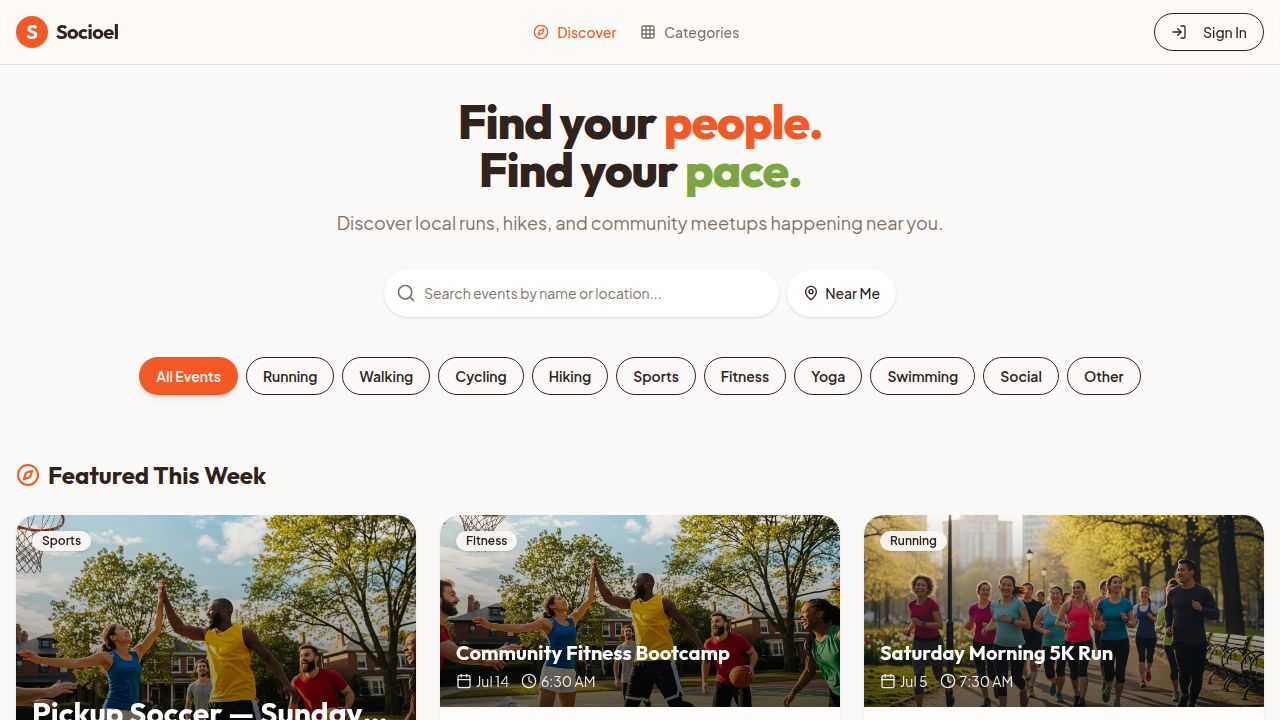
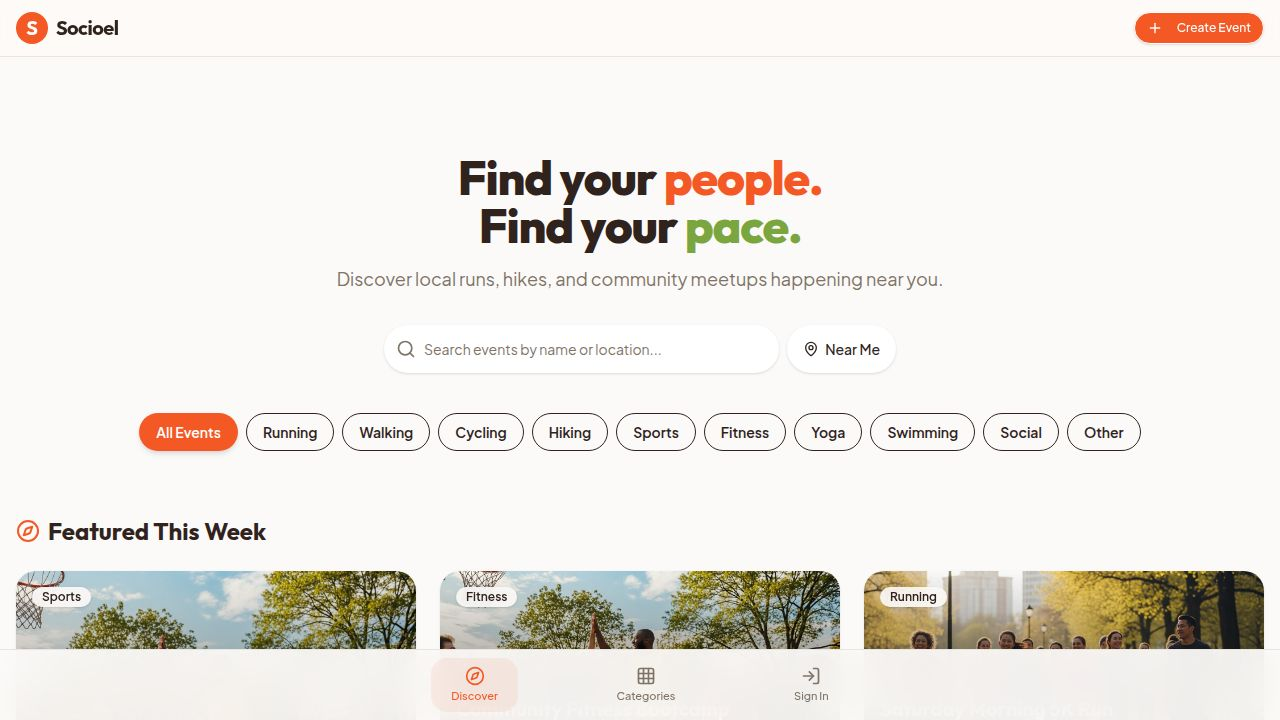
Merged changes from wml6azpq/main
Replit-Task-Id: 5ba9dd7a-890f-4b3c-a02c-1dd8649cbf9b

diff --git a/artifacts/gatherup/src/components/EventMapView.tsx b/artifacts/gatherup/src/components/EventMapView.tsx
@@ -1,0 +1,150 @@
+import { useEffect, useRef } from "react";
+import { MapContainer, TileLayer, Marker, Popup, useMap } from "react-leaflet";
+import L from "leaflet";
+import { format } from "date-fns";
+import { Calendar, Clock, Users } from "lucide-react";
+import { Link } from "wouter";
+import { Event } from "@workspace/api-client-react";
+import "leaflet/dist/leaflet.css";
+
+delete (L.Icon.Default.prototype as unknown as Record<string, unknown>)._getIconUrl;
+L.Icon.Default.mergeOptions({
+  iconUrl: "https://unpkg.com/leaflet@1.9.4/dist/images/marker-icon.png",
+  iconRetinaUrl: "https://unpkg.com/leaflet@1.9.4/dist/images/marker-icon-2x.png",
+  shadowUrl: "https://unpkg.com/leaflet@1.9.4/dist/images/marker-shadow.png",
+});
+
+const CATEGORY_COLORS: Record<string, string> = {
+  running: "#f97316",
+  hiking: "#22c55e",
+  cycling: "#3b82f6",
+  sports: "#a855f7",
+  yoga: "#ec4899",
+  social: "#14b8a6",
+  fitness: "#f59e0b",
+};
+
+function createPinIcon(category: string) {
+  const color = CATEGORY_COLORS[category.toLowerCase()] ?? "#6366f1";
+  const svg = `
+    <svg xmlns="http://www.w3.org/2000/svg" viewBox="0 0 32 42" width="32" height="42">
+      <ellipse cx="16" cy="40" rx="8" ry="2" fill="rgba(0,0,0,0.2)"/>
+      <path d="M16 2C9.373 2 4 7.373 4 14c0 9.333 12 26 12 26S28 23.333 28 14C28 7.373 22.627 2 16 2z"
+        fill="${color}" stroke="white" stroke-width="1.5"/>
+      <circle cx="16" cy="14" r="5" fill="white"/>
+    </svg>`;
+  return L.divIcon({
+    html: svg,
+    className: "",
+    iconSize: [32, 42],
+    iconAnchor: [16, 42],
+    popupAnchor: [0, -44],
+  });
+}
+
+function RecenterMap({ center }: { center: [number, number] | null }) {
+  const map = useMap();
+  const prevCenter = useRef<[number, number] | null>(null);
+  useEffect(() => {
+    if (
+      center &&
+      (!prevCenter.current ||
+        prevCenter.current[0] !== center[0] ||
+        prevCenter.current[1] !== center[1])
+    ) {
+      map.setView(center, 13, { animate: true });
+      prevCenter.current = center;
+    }
+  }, [center, map]);
+  return null;
+}
+
+interface EventMapViewProps {
+  events: Event[];
+  userCoords: { lat: number; lng: number } | null;
+}
+
+export function EventMapView({ events, userCoords }: EventMapViewProps) {
+  const eventsWithCoords = events.filter(
+    (e) => e.latitude != null && e.longitude != null
+  );
+
+  const defaultCenter: [number, number] =
+    userCoords
+      ? [userCoords.lat, userCoords.lng]
+      : eventsWithCoords.length > 0
+      ? [eventsWithCoords[0].latitude!, eventsWithCoords[0].longitude!]
+      : [40.7128, -74.006];
+
+  const userIcon = L.divIcon({
+    html: `<div style="width:16px;height:16px;border-radius:50%;background:#6366f1;border:3px solid white;box-shadow:0 0 0 3px rgba(99,102,241,0.35)"></div>`,
+    className: "",
+    iconSize: [16, 16],
+    iconAnchor: [8, 8],
+  });
+
+  return (
+    <div className="rounded-3xl overflow-hidden border border-border/50 shadow-md" style={{ height: "520px" }}>
+      <MapContainer
+        center={defaultCenter}
+        zoom={userCoords ? 13 : 11}
+        style={{ height: "100%", width: "100%" }}
+        scrollWheelZoom={true}
+      >
+        <TileLayer
+          attribution='&copy; <a href="https://www.openstreetmap.org/copyright">OpenStreetMap</a> contributors &copy; <a href="https://carto.com/">CARTO</a>'
+          url="https://{s}.basemaps.cartocdn.com/rastertiles/voyager/{z}/{x}/{y}{r}.png"
+        />
+
+        <RecenterMap center={userCoords ? [userCoords.lat, userCoords.lng] : null} />
+
+        {userCoords && (
+          <Marker position={[userCoords.lat, userCoords.lng]} icon={userIcon}>
+            <Popup>
+              <span className="text-sm font-semibold text-foreground">Your location</span>
+            </Popup>
+          </Marker>
+        )}
+
+        {eventsWithCoords.map((event) => (
+          <Marker
+            key={event.id}
+            position={[event.latitude!, event.longitude!]}
+            icon={createPinIcon(event.category)}
+          >
+            <Popup minWidth={220} maxWidth={260}>
+              <div className="p-1">
+                <p className="font-bold text-base leading-snug mb-1" style={{ fontFamily: "inherit" }}>
+                  {event.title}
+                </p>
+                <div className="flex flex-wrap gap-x-3 gap-y-0.5 text-xs text-gray-600 mb-2">
+                  <span className="flex items-center gap-1">
+                    <Calendar className="w-3 h-3" />
+                    {format(new Date(event.date), "MMM d")}
+                  </span>
+                  <span className="flex items-center gap-1">
+                    <Clock className="w-3 h-3" />
+                    {event.time}
+                  </span>
+                  <span className="flex items-center gap-1">
+                    <Users className="w-3 h-3" />
+                    {event.attendeeCount}/{event.maxAttendees}
+                  </span>
+                </div>
+                <p className="text-xs text-gray-500 mb-2 line-clamp-2">{event.location}</p>
+                <Link href={`/events/${event.id}`}>
+                  <button
+                    className="w-full text-center text-xs font-semibold py-1.5 px-3 rounded-full text-white"
+                    style={{ background: CATEGORY_COLORS[event.category.toLowerCase()] ?? "#6366f1" }}
+                  >
+                    View Event →
+                  </button>
+                </Link>
+              </div>
+            </Popup>
+          </Marker>
+        ))}
+      </MapContainer>
+    </div>
+  );
+}

diff --git a/artifacts/gatherup/src/pages/Home.tsx b/artifacts/gatherup/src/pages/Home.tsx
@@ -1,10 +1,11 @@
 import { useState, useEffect, useCallback } from "react";
 import { Navbar } from "@/components/Navbar";
 import { EventCard } from "@/components/EventCard";
+import { EventMapView } from "@/components/EventMapView";
 import { useListEvents, useGetFeaturedEvents, useListCategories } from "@workspace/api-client-react";
 import { Input } from "@/components/ui/input";
 import { Button } from "@/components/ui/button";
-import { Search, Compass, Loader2, MapPin, X } from "lucide-react";
+import { Search, Compass, Loader2, MapPin, X, LayoutGrid, Map } from "lucide-react";
 import { Badge } from "@/components/ui/badge";
 
 export default function Home() {
@@ -13,6 +14,7 @@ export default function Home() {
   const [nearCoords, setNearCoords] = useState<{ lat: number; lng: number } | null>(null);
   const [locationLoading, setLocationLoading] = useState(false);
   const [locationError, setLocationError] = useState<string | null>(null);
+  const [viewMode, setViewMode] = useState<"list" | "map">("list");
 
   useEffect(() => {
     const params = new URLSearchParams(window.location.search);
@@ -121,7 +123,7 @@ export default function Home() {
           </div>
         </section>
 
-        {!search && !selectedCategory && !isNearActive && featuredEvents && featuredEvents.length > 0 && (
+        {!search && !selectedCategory && !isNearActive && featuredEvents && featuredEvents.length > 0 && viewMode === "list" && (
           <section className="mb-16">
             <div className="flex items-center gap-2 mb-6">
               <Compass className="w-6 h-6 text-primary" />
@@ -140,6 +142,33 @@ export default function Home() {
             <h2 className="text-2xl font-display font-bold">
               {isNearActive ? "Events Near You" : search ? "Search Results" : selectedCategory ? `${selectedCategory} Events` : "Upcoming Events"}
             </h2>
+
+            <div className="flex items-center gap-1 bg-card rounded-full p-1 shadow-sm border border-border/40">
+              <button
+                onClick={() => setViewMode("list")}
+                className={`flex items-center gap-1.5 px-3 py-1.5 rounded-full text-sm font-medium transition-all ${
+                  viewMode === "list"
+                    ? "bg-primary text-primary-foreground shadow-sm"
+                    : "text-muted-foreground hover:text-foreground"
+                }`}
+                title="List view"
+              >
+                <LayoutGrid className="w-4 h-4" />
+                <span className="hidden sm:inline">List</span>
+              </button>
+              <button
+                onClick={() => setViewMode("map")}
+                className={`flex items-center gap-1.5 px-3 py-1.5 rounded-full text-sm font-medium transition-all ${
+                  viewMode === "map"
+                    ? "bg-primary text-primary-foreground shadow-sm"
+                    : "text-muted-foreground hover:text-foreground"
+                }`}
+                title="Map view"
+              >
+                <Map className="w-4 h-4" />
+                <span className="hidden sm:inline">Map</span>
+              </button>
+            </div>
           </div>
           
           {(loadingEvents || (!isNearActive && loadingFeatured)) && (
@@ -165,12 +194,16 @@ export default function Home() {
             </div>
           )}
 
-          {!loadingEvents && events && events.length > 0 && (
+          {!loadingEvents && events && events.length > 0 && viewMode === "list" && (
             <div className="grid grid-cols-1 md:grid-cols-2 lg:grid-cols-3 xl:grid-cols-4 gap-6">
               {events.map((event) => (
                 <EventCard key={event.id} event={event} />
               ))}
             </div>
+          )}
+
+          {!loadingEvents && events && events.length > 0 && viewMode === "map" && (
+            <EventMapView events={events} userCoords={nearCoords} />
           )}
         </section>
       </main>